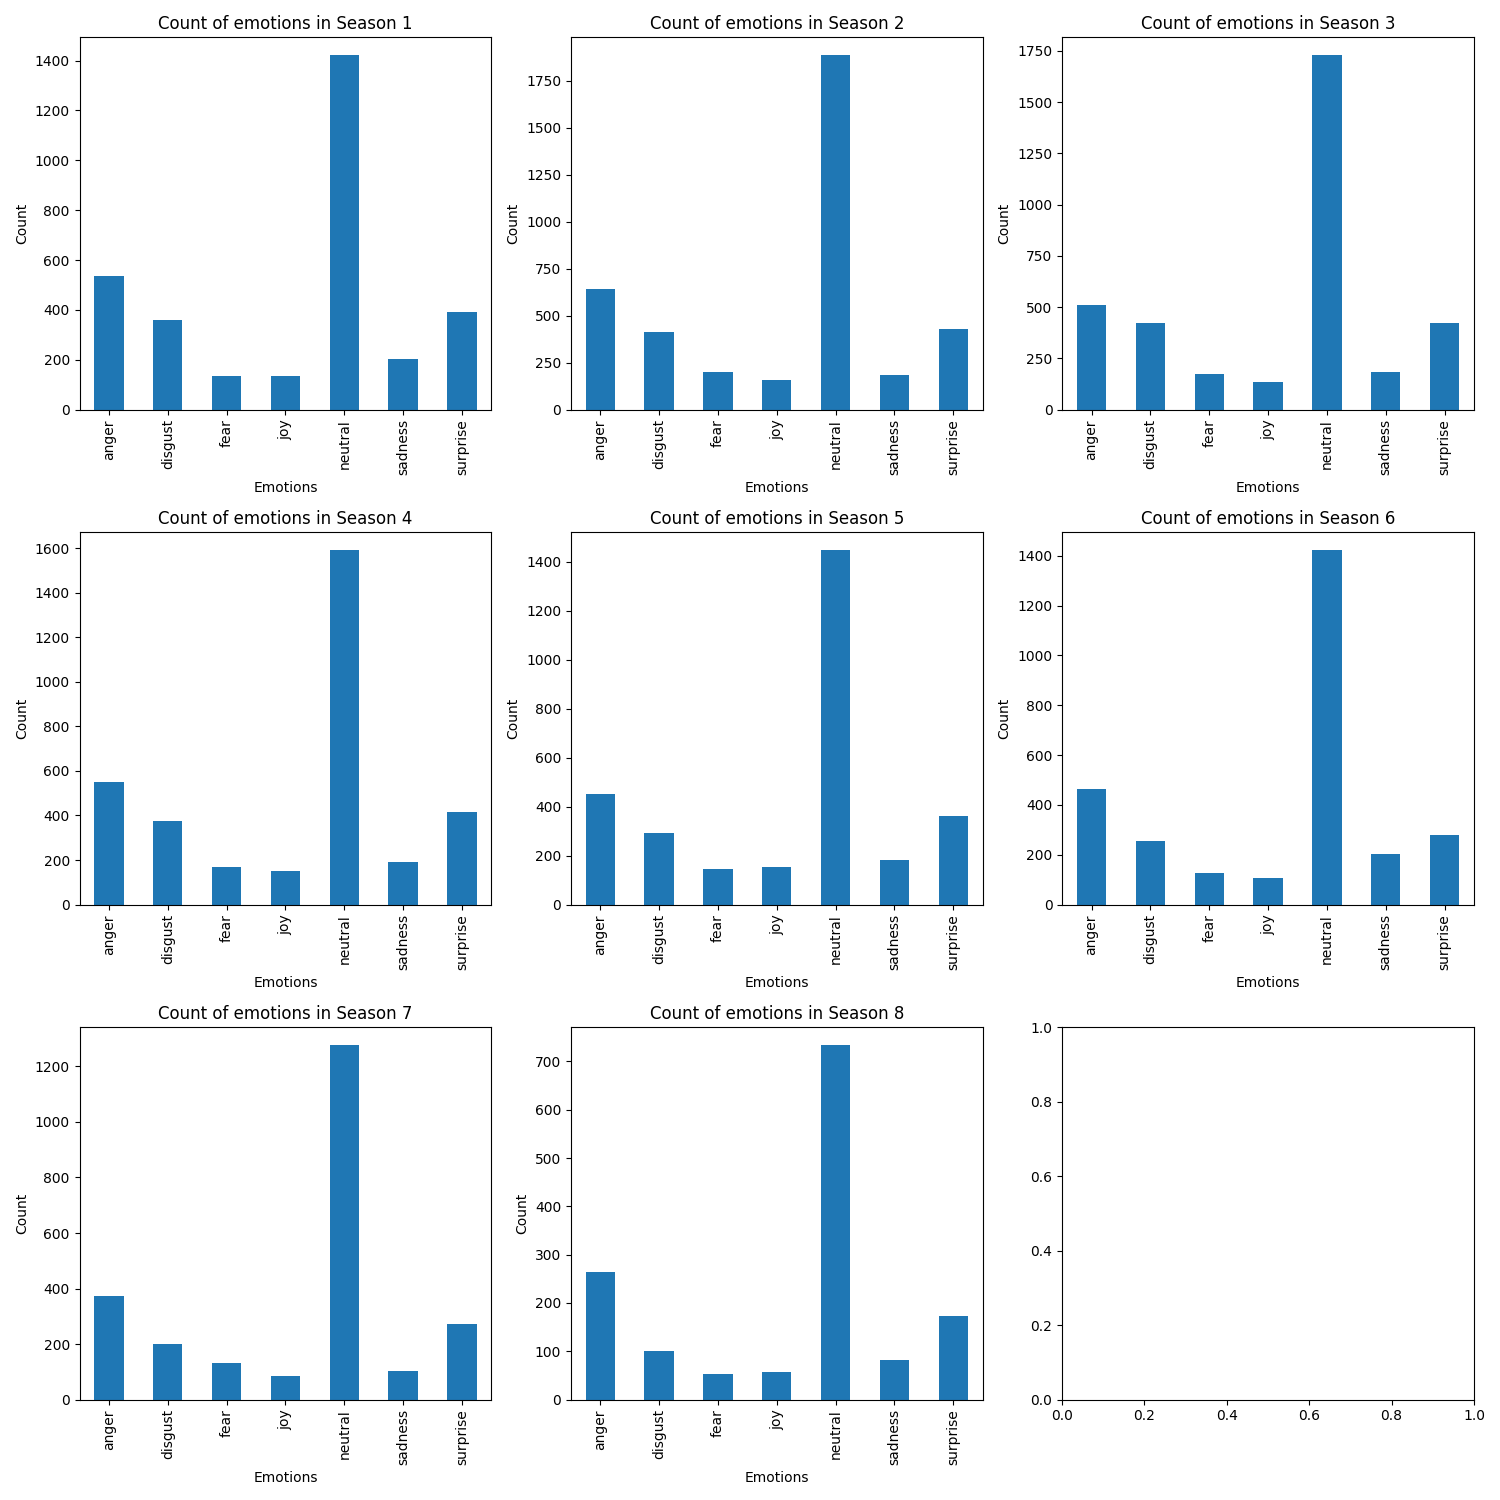
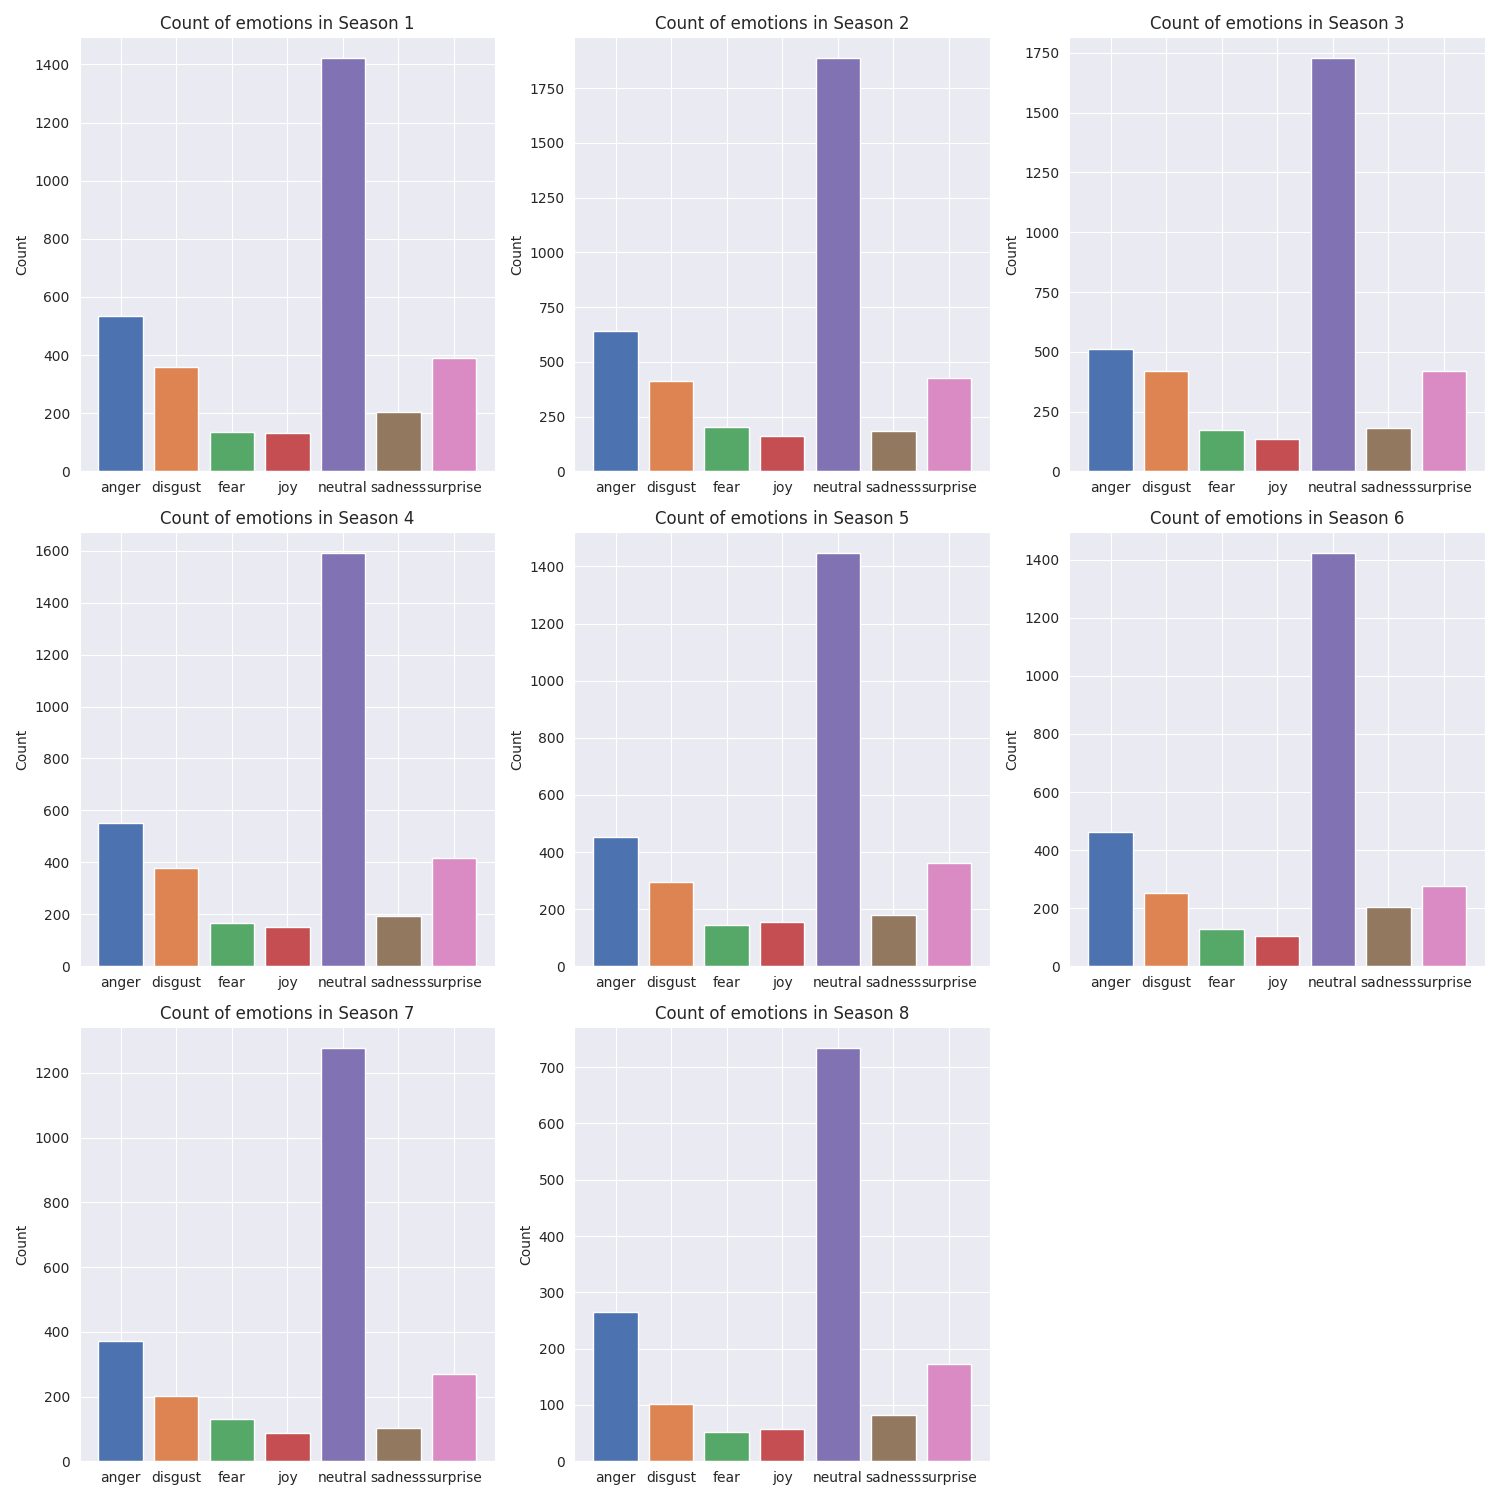
better plots and tqdm

diff --git a/assignment_4/src/Emotion_analysis.py b/assignment_4/src/Emotion_analysis.py
@@ -3,6 +3,7 @@ import pandas as pd
 import numpy as np
 import matplotlib.pyplot as plt
 import seaborn as sns
+from tqdm import tqdm
 
 
 def extract_emotions(df):
@@ -12,73 +13,102 @@ def extract_emotions(df):
     classifier = pipeline("text-classification", 
                         model="j-hartmann/emotion-english-distilroberta-base", 
                         return_all_scores=False)
-
+    
     '''
     Text is made into list. Hereafter the text is classified using the pipeline and values are saved
     '''
     text = [str(i) for i in df['Sentence'].tolist()]
-    emotion_scores = classifier(text)
-
-    '''
-    Appends the items to the dataframe
-    '''
-    labels = []
-    scores = []
-
-    for item in emotion_scores:
-        labels.append(item['label'])
-        scores.append(item['score'])
-
+    
+    emotion_scores = []
+    for sentence in tqdm (text, desc = 'Extracting emotions on sentences'):
+        scores = classifier(sentence)
+        emotion_scores.append(scores[0])
+    
+    """Appends the items to the dataframe """
+    labels = [item['label'] for item in emotion_scores]
+    scores = [item['score'] for item in emotion_scores]
+    
     df['emotion'] = labels
     df['score'] = scores
 
     return df
 
 
-
-def emotions_count_for_seasons(df):
-    fig, axs = plt.subplots(3, 3, figsize=(15, 15))
-    '''
-    Loops through data and creates a histogram plot for each season
-    '''
-    for i, season_label in enumerate(df['Season'].unique()):
-            season_data = df[df['Season'] == season_label]
-            ax = season_data['emotion'].value_counts().sort_index().plot(kind='bar', title=f'Count of emotions in {season_label}', ax=axs[i // 3, i % 3])
-            ax.set_xlabel('Emotions')
-            ax.set_ylabel('Count')
-
-    plt.tight_layout()
-    plt.savefig("out/Count_all_emotions_for_seasons.png")
-    plt.show()
-
-
 def season_rel_freq_for_emotions(df):
-    fig, axs = plt.subplots(1, 6, figsize=(15, 15))
-    '''
-    Loops through data and creates a histogram plot for each emotion
-    '''
+    
+    """ Setting a style and generating a color palette for the bars """
+    sns.set_style("darkgrid")
+    num_seasons = len(df['Season'].unique())
+    color_palette = sns.color_palette("deep", num_seasons)
+
+    """ For arranging the plots, the number of unique emotions is calculated """
+    num_emotions = len(df['emotion'].unique())
+    
+    """ Calculates the number of rows and columns for subplot grid and creates the subplot grid """
+    num_rows = (num_emotions - 1) // 3 + 1
+    num_cols = min(num_emotions, 3)
+    fig, axs = plt.subplots(num_rows, num_cols, figsize=(15, 15))
+    
+    """ Loops through data and creates a bar plot for each emotion """
     for i, emotion_label in enumerate(df['emotion'].unique()):
         emotion_data = df[df['emotion'] == emotion_label]
         counts = emotion_data['Season'].value_counts().sort_index()
         total_count = counts.sum()
-        relative_freq = counts / total_count  
-        ax = relative_freq.plot(kind='bar', title=f'Relative frequency of {emotion_label} across all seasons', ax=axs[i // 3, i % 3])
-        ax.set_xlabel('seasons')
+        relative_freq = counts / total_count 
+        ax = relative_freq.plot(kind='bar', color=color_palette , ax=axs[i // 3, i % 3])
+        ax.set_title(f'Relative frequency of {emotion_label} across all seasons')
+        ax.xaxis.set_label_text("")
         ax.set_ylabel('Relative Frequency')
-
+    
+    """ Hide the empty subplots for nicer layout """
+    for i in range(num_emotions, num_rows * num_cols):
+        axs[i // 3, i % 3].axis('off')
+    
     plt.tight_layout()
     plt.savefig("out/Relative_frequency_of_emotions_across_all_seasons.png")
     plt.show()
 
 
+def emotions_count_for_seasons(df):
+    
+    """ Setting a style and generating a color palette for the bars """
+    sns.set_style("darkgrid")
+    num_emotions = len(df['emotion'].unique())
+    color_palette = sns.color_palette("deep", num_emotions)
+
+    """ For arranging the plots, the number of unique emotions is calculated """
+    num_seasons = len(df['Season'].unique())
+    
+    """ Calculates the number of rows and columns for subplot grid and creates the subplot grid """
+    num_rows = (num_seasons - 1) // 3 + 1
+    num_cols = min(num_seasons, 3)
+    fig, axs = plt.subplots(num_rows, num_cols, figsize=(15, 15))
+    
+    """ Loops through data and creates a bar plot for each season """
+    for i, season_label in enumerate(df['Season'].unique()):
+        season_data = df[df['Season'] == season_label]
+        ax = axs[i // 3, i % 3] 
+        emotions = season_data['emotion'].value_counts().sort_index()
+        ax.bar(emotions.index, emotions.values, color=color_palette)
+        ax.set_title(f'Count of emotions in {season_label}')
+        ax.xaxis.set_label_text("")
+        ax.set_ylabel('Count')
+    
+    """ Hide the empty subplots for nicer layout """
+    for i in range(num_seasons, num_rows * num_cols):
+        axs[i // 3, i % 3].axis('off')
+    
+    plt.tight_layout()
+    plt.savefig("out/Count_all_emotions_for_seasons.png")
+    plt.show()
+
 
 def main():
-    df = pd.read_csv("../../../../cds-lang-data/GoT-scripts/Game_of_Thrones_Script.csv")
+    df = pd.read_csv("in/Game_of_Thrones_Script.csv")
     df = extract_emotions(df)
-    emotions_count_for_seasons(df)
     season_rel_freq_for_emotions(df)
+    emotions_count_for_seasons(df)
 
     
-
 if __name__ == "__main__":
     main()

diff --git a/assignment_4/README.md b/assignment_4/README.md
@@ -1,36 +1,50 @@
 # Emotion analysis with pre-trained language models 
 
+
 ## Introduction
-This program contains a script that will load a csv file of all lines from all 8 seasons of the poular televesion show Game of Thrones (GoT) to perform some computational text analysis. Using a pretrained sentiment analysis model, the emotion-english-distilroberta-base, an emotion for each line is extracted being either anger, disgust, fear, joy, neutral, sadness or surprise as well as a score ranging from 0-1 indication the intensity of the extracted emotion. 
-The model is based on the highly complex "DistilRoBERTa" architecture which is a distilled version of the RoBERTa model, which is itself a variant of the well-known BERT (Bidirectional Encoder Representations from Transformers) model, said to be a state-of-the-art model in natural langauge processing. 
-Plots demonstrating the distribution of all emotion labels in each season (8 seasons in total) and the relative frequency of each emotion across all seasons (7 emotions in total) is created and saved. The results are summarised and discussed.
+This program contains a script that will load a csv file of all lines from all 8 seasons of the popular television show Game of Thrones (GoT) to perform some computational text analysis. Using a pretrained sentiment analysis model, the emotion-english-distilroberta-base, an emotion for each line is extracted being either anger, disgust, fear, joy, neutral, sadness or surprise as well as a score ranging from 0-1 indicating the intensity of the extracted emotion. 
+The model is based on the highly complex "DistilRoBERTa" architecture which is a distilled version of the RoBERTa model, which is itself a variant of the well-known BERT (Bidirectional Encoder Representations from Transformers) model, said to be a state-of-the-art model in natural language processing. 
+Plots demonstrating the distribution of all emotion labels in each season (8 seasons in total) and the relative frequency of each emotion across all seasons (7 emotions in total) are created and saved. The results are summarised and discussed.
 
 
-## Data source
+## Data 
 The dataset is the ```Game of Thrones Script All Seasons``` dataset which consists of all spoken lines from the popular show Game of Thrones. The dataset has a total of 23911 lines. The dataset can be found and downloaded [here](https://www.kaggle.com/datasets/albenft/game-of-thrones-script-all-seasons?select%253DGame_of_Thrones_Script.csv). 
 
 
-## Repository structure
-The repository consists of 2 bash scripts, 1 README.md file, 1 txt file, and 3 folders. The folders contains the following:
-
--   in: for storing input data
--   out: holds the saved plots
--   src: script for doing emotion analysis on the GoT data
+## Repository overview 
+The repository consists of:
+- 1 README.md file
+- 2 bash scripts
+- 1 requirements file
+- in folder for storing input data
+- out folder for holding the saved results
+- src folder containing the script implementing emotion analysis 
 
 
 ## Reproducibility 
 To make the program work do the following:
 
-1) download the dataset and place it in the 'in' folder.
-2) in the script Emotion_analysis change the path to where the data is located 
-3) in a terminal start by running the following code (make sure your directory is set to where setup.sh is located):
-    $ source setup.sh
-4) in the terminal run the code:
-    $ source run.sh
-2 plots will be saved in the out folder. NOTE that the script will take some time to run since it deals with alot of data. 
+1) clone the repository 
+```python
+$ git clone https://github.com/idadencker/cds-lang-assignments.git
+```
+2) download the Game_of_Thrones_Script.csv and place in the 'in' folder
+3) In a terminal set your directory:
+```python
+$ cd assignment_4
+```
+4) To create a virtual environment run:
+```python
+$ source setup.sh
+```
+5) To run the script and save results 
+```python
+$ source run.sh 
+```
+2 plots are saved in the out folder
 
 
 ## Summary and discussion
 From looking at the first plot 'Count_all_emotions_for_seasons' it is clear that neutral is by far the most expressed emotion across all seasons. For all seasons anger is the second most expressed emotion. Generelly a very similar pattern for emotions is displayed for all 8 seasons, meaning that the distribution of emotions is close to identical for all seasons. 
-Looking at the relative frequencies of the different emotions across seasons, joy and disgust seems to decrease over the seasons, while more dispersed patterns are seen for the other emotions. Interestingly, the relative frequency of sadness notably drop for the last two seasons 7 and 8. Also fear and surprise is low in the last season campared to the ramaining seasons. Generelly, most emotions are quite stable for seasons with only a few example that deviance from the little-fluctuation-pattern.  
+Looking at the relative frequencies of the different emotions across seasons, joy and disgust seems to decrease over the seasons, while more dispersed patterns are seen for the other emotions. Interestingly, the relative frequency of sadness notably drop for the last two seasons 7 and 8. Also fear and surprise is low in the last season campared to the remaining seasons. Generelly, most emotions are quite stable for seasons with only a few examples that deviate from the little-fluctuation-pattern.  
 
